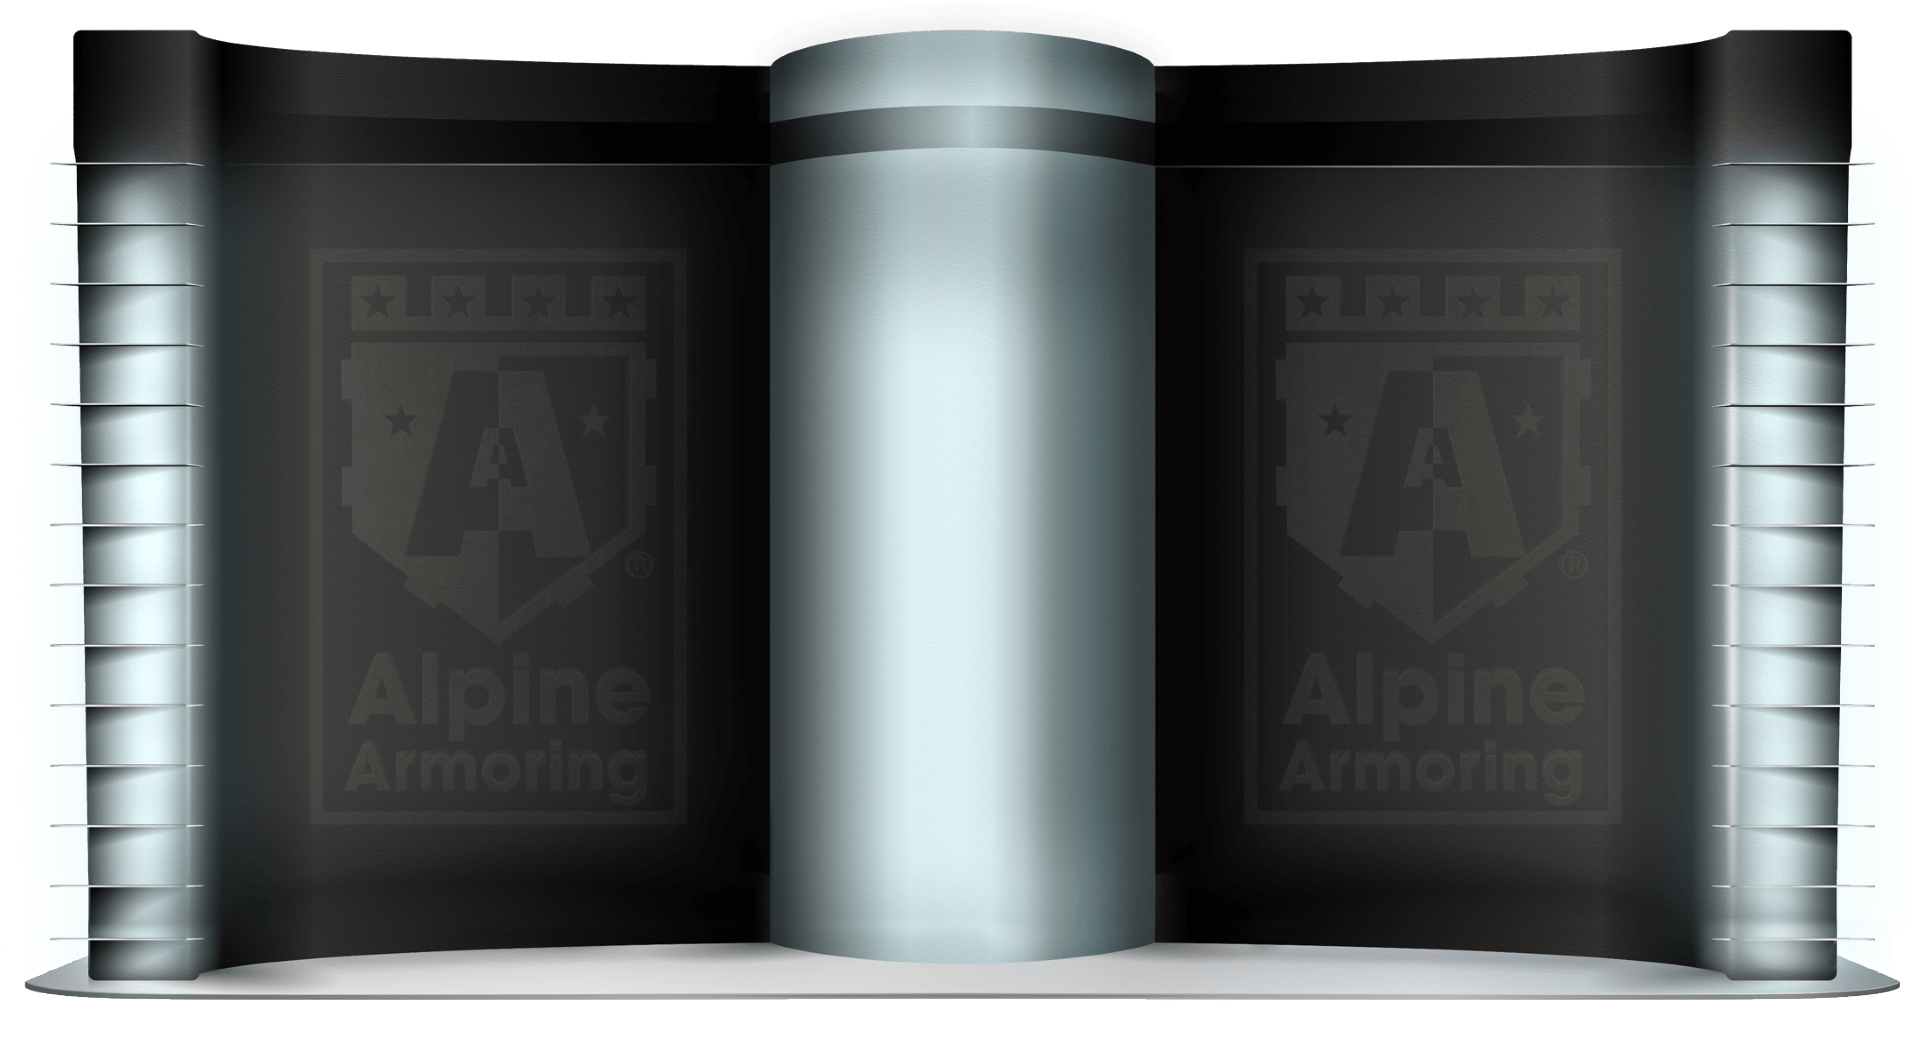
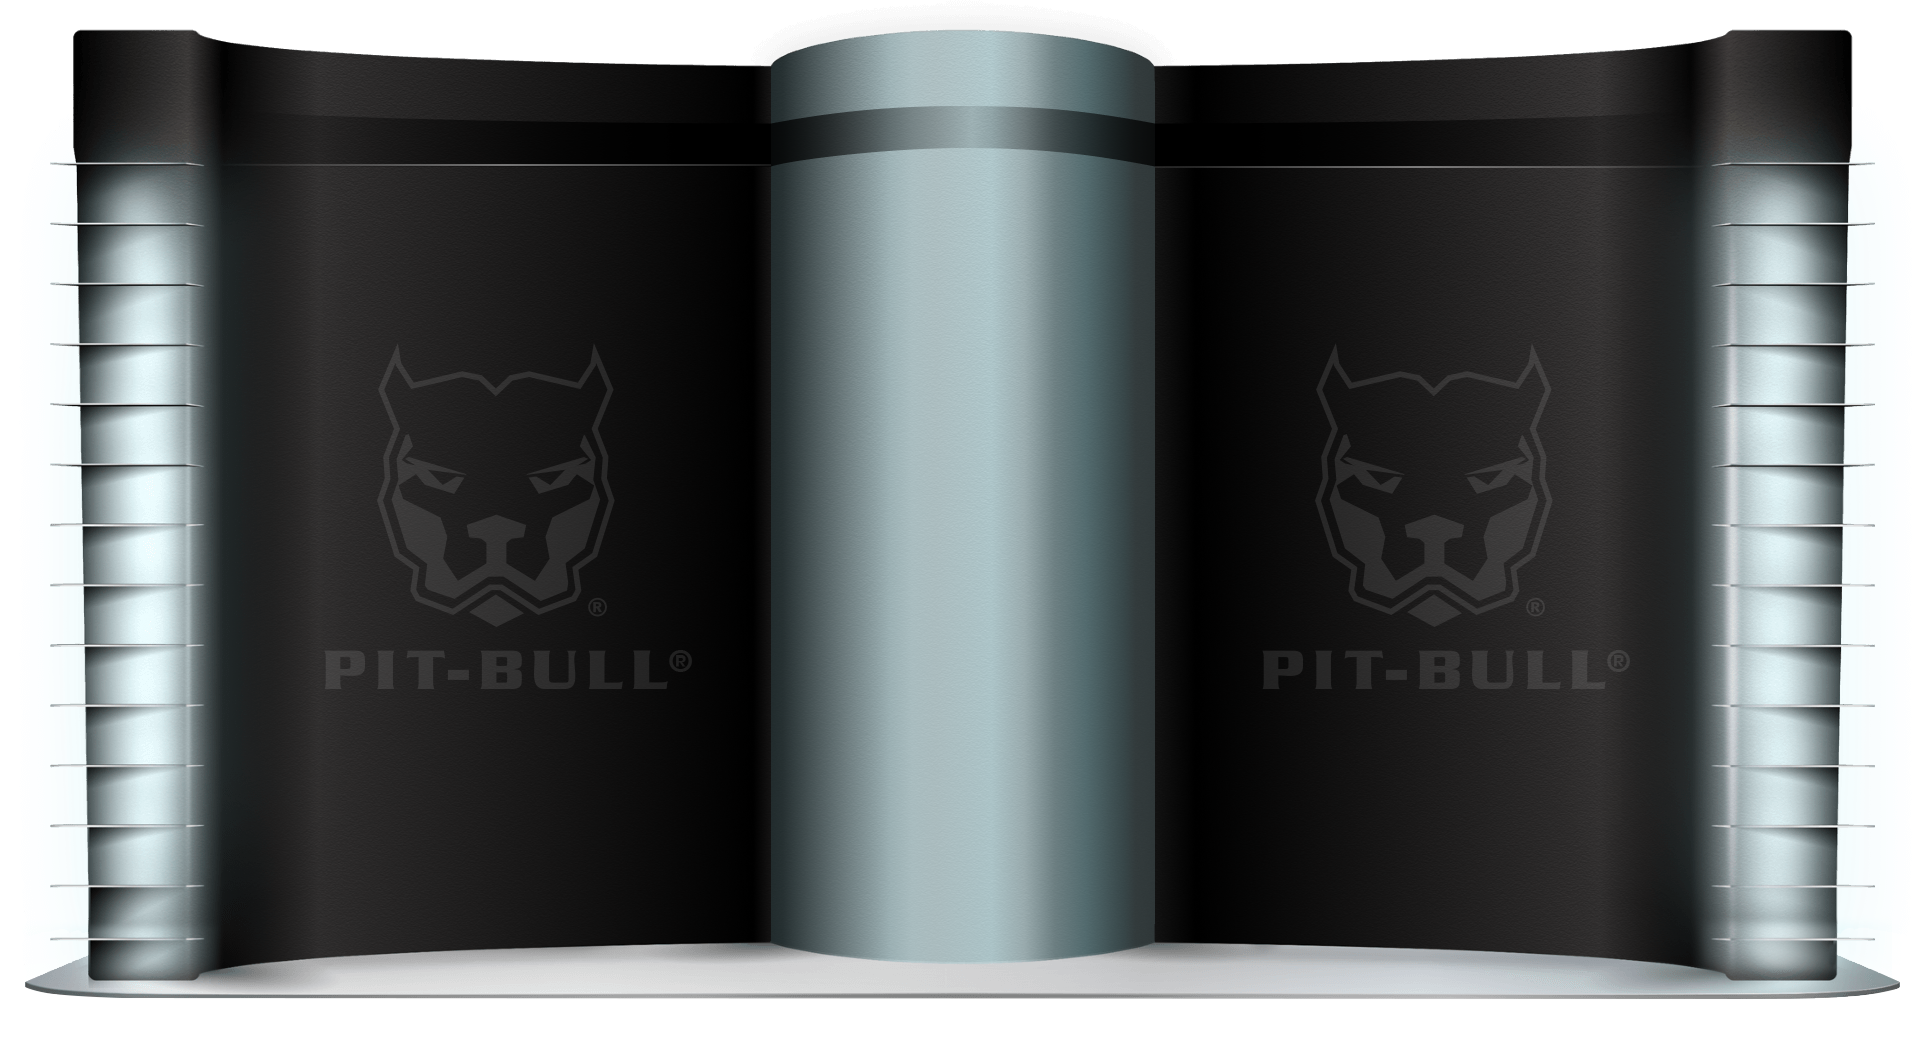
fixes

diff --git a/components/ballistic-chart/BallisticChart.module.scss b/components/ballistic-chart/BallisticChart.module.scss
@@ -150,6 +150,7 @@
 
         @include breakpoint(large) {
           left: 4.792vw;
+          top: 0.5vW;
 
           img {
             width: 4.2vw;
@@ -168,7 +169,7 @@
         }
 
         @include breakpoint(large) {
-          left: 6vw;
+          left: 5.5vw;
           top: 1.65vw;
 
           img {
@@ -190,12 +191,12 @@
         }
 
         @include breakpoint(large) {
-          left: 7.6vw;
+          left: 6vw;
           top: -1.8vw;
         }
 
         @include breakpoint(max) {
-          left: 146px;
+          left: 108px;
           top: -34px;
         }
 
@@ -213,7 +214,7 @@
         }
 
         @include breakpoint(large) {
-          left: 1.875vw;
+          left: -0.4vw;
           top: -0.4vw;
         }
         @include breakpoint(max) {
@@ -233,18 +234,16 @@
           top: 12px;
         }
         @include breakpoint(large) {
-          left: -3.281vw;
-          top: 1.1vw;
+          left: -5vw;
+          top: 0.5vW;
         }
         @include breakpoint(max) {
-          left: -63px;
-          top: 21px;
+          left: -100px;
         }
         img {
-          max-width: 127px;
           @include breakpoint(large) {
-            max-width: 140px;
-            width: 7.292vw;
+            max-width: 80px;
+            width: 4.2vw;
           }
         }
       }

diff --git a/components/vehicle-builder/PasswordProtectedConfigurator.tsx b/components/vehicle-builder/PasswordProtectedConfigurator.tsx
@@ -17,7 +17,7 @@ const PasswordProtectedConfigurator: React.FC<
   const [isAuthenticated, setIsAuthenticated] = useState(false);
   const [passwordError, setPasswordError] = useState('');
 
-  const validPasswords = ['config2025', 'alpine123'];
+  const validPasswords = ['Alpine-PB'];
 
   const handlePasswordSubmit = (e: React.FormEvent) => {
     e.preventDefault();
@@ -95,7 +95,10 @@ const PasswordProtectedConfigurator: React.FC<
               </button> */}
 
               {passwordError && (
-                <small className={stylesForm.form_input_error}>
+                <small
+                  className={stylesForm.form_input_error}
+                  style={{ visibility: 'visible' }}
+                >
                   {passwordError}
                 </small>
               )}

diff --git a/components/menu/Menu.tsx b/components/menu/Menu.tsx
@@ -515,7 +515,7 @@ const OverlayMenu: React.FC<OverlayMenuProps> = ({
             </li>
             <li className={`${styles.menuContent_socials_item}`}>
               <Link
-                href="https://www.instagram.com/alpinearmoring/"
+                href="https://www.instagram.com/pitbullvehicles/"
                 target="_blank"
                 rel="nofollow noreferrer noopener"
                 onMouseOver={handleDefaultPreviewHover}

diff --git a/components/ballistic-chart/BallisticChart.tsx b/components/ballistic-chart/BallisticChart.tsx
@@ -399,10 +399,10 @@ const BallisticChart = () => {
         styles={styles}
       />
       <HeaderItem
-        src="heading_best"
+        src="ballistic_logo"
         alt="No one protects you better."
-        desktopWidth={140}
-        desktopHeight={78}
+        desktopWidth={80}
+        desktopHeight={122}
         styles={styles}
       />
     </div>

diff --git a/components/footer/Footer.tsx b/components/footer/Footer.tsx
@@ -96,7 +96,7 @@ const Footer = () => {
         </li>
         <li className={`${styles.footer_socials_item}`}>
           <Link
-            href="https://www.instagram.com/alpinearmoring/"
+            href="https://www.instagram.com/pitbullvehicles/"
             target="_blank"
             rel="nofollow noreferrer noopener"
           >

diff --git a/components/form/Form.module.scss b/components/form/Form.module.scss
@@ -5,6 +5,7 @@
     justify-content: space-between;
     max-width: 700px;
     margin: 0 auto;
+    align-items: baseline;
   }
 
   &_group {
